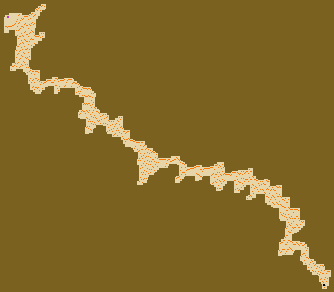
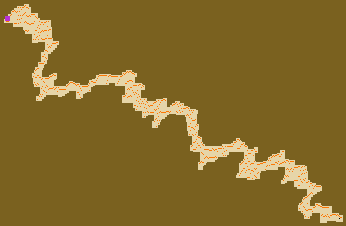
feat:add spawnable status to tiles

Changed region(s): [[0.0, 0.0, 1.0, 0.9912]]

diff --git a/src/area_gen/mod.rs b/src/area_gen/mod.rs
@@ -11,7 +11,7 @@ mod maps;
 type Grid = Vec<Vec<Tile>>;
 
 const TILE_SIZE: i32 = 60;
-// const MOB_SIZE: i32 = 20;
+const MOB_SIZE: i32 = 20;
 
 pub struct AreaGenerationOutput {
     pub width: u32,
@@ -28,9 +28,15 @@ pub struct Shape {
     pub inner_if_true: bool,
 }
 
-// pub struct Enemy {
-//     pub point: (f32, f32),
-// }
+pub enum EnemyType {
+    Ranged,
+    Melee,
+}
+
+pub struct Enemy {
+    pub point: (u32, u32),
+    pub mob_type: EnemyType,
+}
 
 pub fn generate_area(map_index: usize) -> AreaGenerationOutput {
     // Create random generator from seed
@@ -58,6 +64,12 @@ pub fn generate_area(map_index: usize) -> AreaGenerationOutput {
     render_grid(&grid, map_name.clone(), false);
 
     // render_grid(&grid, map_name.clone() + "_outline", true);
+
+    //------------------------------------------------------//
+    //               Generate mobs                          //
+    //------------------------------------------------------//
+
+    let enemies = generate_mobs(&grid);
 
     // Initiate module outputf
     let mut walkable_x = Vec::new();
@@ -88,6 +100,15 @@ pub fn generate_area(map_index: usize) -> AreaGenerationOutput {
     }
 }
 
+fn generate_mobs(grid: &Grid) -> Vec<Enemy> {
+    let mut mobs = Vec::new();
+    mobs.push(Enemy {
+        mob_type: EnemyType::Melee,
+        point: (0, 0),
+    });
+    mobs
+}
+
 fn add_mob_packs(grid: &mut Grid, start: (i32, i32), rng: &mut ChaCha8Rng, density: f64) -> i32 {
     let mut nb_walkable = 0;
 
@@ -100,12 +121,6 @@ fn add_mob_packs(grid: &mut Grid, start: (i32, i32), rng: &mut ChaCha8Rng, densi
     }
     let nb_packs = (density * nb_walkable as f64) as i32;
     let tiles_iter = nb_walkable / nb_packs;
-    println!(
-        "{} walkable, {} density, {} packs, 1 pack every {} tiles",
-        nb_walkable, density, nb_packs, tiles_iter
-    );
-
-    // let mut walkable_nodes :Vec<(i32,i32)>
     // Pas utiliser directement tiles_iter, mais le randomisser de 0 a tile_itter
     let mut iter = 0;
     let mut next_iter = tiles_iter;
@@ -116,10 +131,11 @@ fn add_mob_packs(grid: &mut Grid, start: (i32, i32), rng: &mut ChaCha8Rng, densi
             if tile.walkable
                 && iter >= next_iter
                 // No monsters next to map start
-                && (((x as f64 - start.0 as f64).abs() * (x as f64 - start.0 as f64).abs())
-                    + ((y as f64 - start.1 as f64).abs() * (y as f64 - start.1 as f64).abs()))
-                .sqrt()
-                  > 10.0
+                // && (((x as f64 - start.0 as f64).abs() * (x as f64 - start.0 as f64).abs())
+                //     + ((y as f64 - start.1 as f64).abs() * (y as f64 - start.1 as f64).abs()))
+                // .sqrt()
+                //   > 10.0
+                && tile.spawnable
                 // No monsters next to walls
                 && grid_copy[x+1][y].walkable
                 && grid_copy[x-1][y].walkable
@@ -340,8 +356,7 @@ fn generate_map(seed: u64, map: Map) -> (Grid, (i32, i32), i32) {
     let map_start = center;
     // Add
     for i in 0..map.biomes.len() {
-        center =
-            generate_walkable_layout(&mut grid, &map.biomes[i], &mut rng, oob_tiletype, center);
+        center = generate_walkable_layout(&mut grid, &map.biomes[i], &mut rng, center);
     }
 
     // remove small clusters of oob tiles
@@ -350,8 +365,8 @@ fn generate_map(seed: u64, map: Map) -> (Grid, (i32, i32), i32) {
     remove_small_cluster(&mut grid, oob_tiletype, 4, false, true);
 
     // add Start of map, first center and last center
-    draw_rectangle(&mut grid, TileType::Start, (2, 2), map_start, true);
-    draw_rectangle(&mut grid, TileType::Boss, (2, 2), center, true);
+    draw_rectangle(&mut grid, TileType::Start, (5, 5), map_start, true, false);
+    draw_rectangle(&mut grid, TileType::Boss, (1, 1), center, true, true);
 
     // resize_grid to it's minimum size
     resize_grid(&mut grid, 4);
@@ -366,9 +381,10 @@ fn generate_map(seed: u64, map: Map) -> (Grid, (i32, i32), i32) {
         }
     }
 
-    //------------------------------------------------------//
-    //               Add mob packs                          //
-    //------------------------------------------------------//
+    // add events on map, tag them as non spawnable
+    // TODO
+
+    // add mob packs
     let nb_packs = add_mob_packs(&mut grid, start_after_resize, &mut rng, map.density);
 
     // // print grid
@@ -526,14 +542,13 @@ fn remove_small_cluster(
     }
     // after full scan, update tileset
     for tile in tiles_to_fill {
-        add_tile(grid, tile.0, tile.1, TileType::Floor, true);
+        add_tile(grid, tile.0, tile.1, TileType::Floor, true, false);
     }
 }
 fn generate_walkable_layout(
     grid: &mut Grid,
     biome: &FloorPattern,
     rng: &mut ChaCha8Rng,
-    oob_tiletype: TileType,
     start_center: (i32, i32),
 ) -> (i32, i32) {
     draw_rectangle(
@@ -555,6 +570,7 @@ fn generate_walkable_layout(
         ),
         start_center,
         true,
+        true,
     );
 
     let mut center: (i32, i32) = start_center;
@@ -569,7 +585,7 @@ fn generate_walkable_layout(
             let direction: (i32, i32) =
                 biome.allowed_directions[rng.gen_range(0..biome.allowed_directions.len())];
 
-            center = find_point_on_edge(grid, center, oob_tiletype, direction);
+            center = find_point_on_edge(grid, center, direction);
             draw_rectangle(
                 grid,
                 TileType::Floor,
@@ -589,6 +605,7 @@ fn generate_walkable_layout(
                 ),
                 center,
                 true,
+                true,
             );
             // Add mob pack at the center of the square
         }
@@ -599,7 +616,6 @@ fn generate_walkable_layout(
 fn find_point_on_edge(
     grid: &Grid,
     previous_center: (i32, i32),
-    oob_tiletype: TileType,
     direction: (i32, i32),
 ) -> (i32, i32) {
     let mut current_position = previous_center;
@@ -609,8 +625,7 @@ fn find_point_on_edge(
         && (current_position.1 - 1) > 0
         && grid[(current_position.0 + direction.0) as usize]
             [(current_position.1 + direction.1) as usize]
-            .tile_type
-            != oob_tiletype
+            .walkable
     {
         current_position = (
             (current_position.0 + direction.0),
@@ -645,6 +660,7 @@ fn draw_rectangle(
     size: (i32, i32),
     center: (i32, i32),
     walkable: bool,
+    spawnable: bool,
 ) {
     for x in 0..size.0 {
         for y in 0..size.1 {
@@ -654,15 +670,24 @@ fn draw_rectangle(
                 ((center.1 - (size.1 / 2)) + y) as usize,
                 tiletype,
                 walkable,
+                spawnable,
             )
         }
     }
 }
 
-fn add_tile(grid: &mut Grid, x: usize, y: usize, tile_type: TileType, walkable: bool) {
+fn add_tile(
+    grid: &mut Grid,
+    x: usize,
+    y: usize,
+    tile_type: TileType,
+    walkable: bool,
+    spawnable: bool,
+) {
     if x < grid.len() && y < grid.len() {
         grid[x][y].tile_type = tile_type;
         grid[x][y].walkable = walkable;
+        grid[x][y].spawnable = spawnable;
     }
 }
 
@@ -676,6 +701,7 @@ fn init_grid(height: i32, width: i32, oob_tiletype: TileType) -> Grid {
                 scanned: false,
                 walkable: false,
                 mob_pack: None,
+                spawnable: false,
             })
         }
         grid.push(row)

diff --git a/src/area_gen/maps/mod.rs b/src/area_gen/maps/mod.rs
@@ -27,6 +27,7 @@ pub struct Tile {
     pub tile_type: TileType,
     pub scanned: bool,
     pub walkable: bool,
+    pub spawnable: bool,
     pub mob_pack: Option<MobPack>,
 }
 
